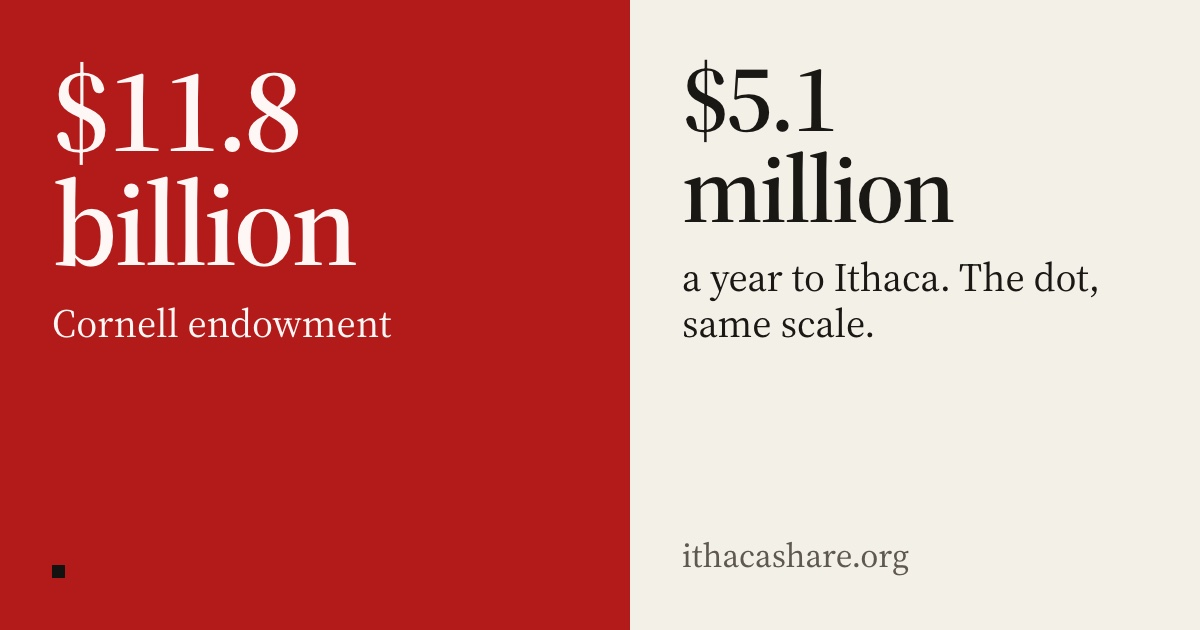
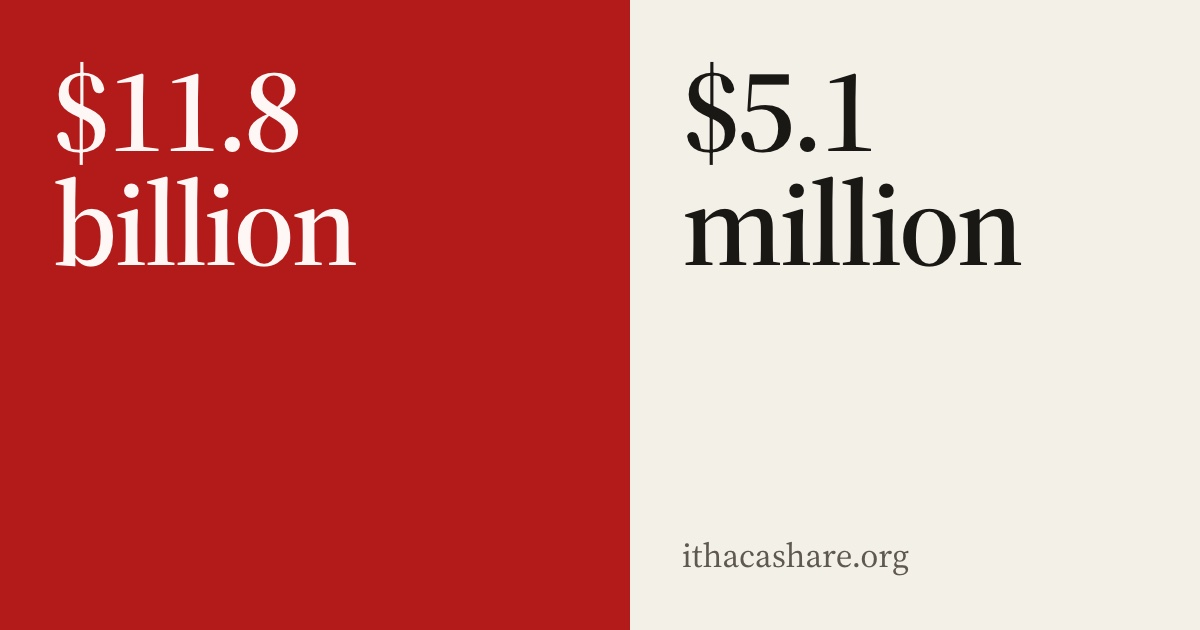
Minimal OG image

Changed region(s): [[0.555, 0.0905, 0.925, 0.5429], [0.0308, 0.4825, 0.3392, 0.5429], [0.0308, 0.8746, 0.0617, 0.9349]]

diff --git a/public/index.html b/public/index.html
@@ -13,11 +13,11 @@
   <meta property="og:url" content="https://ithacashare.org/">
   <meta property="og:title" content="Ithaca Share">
   <meta property="og:description" content="Cornell’s endowment is $11.8 billion. Its voluntary payments to Ithaca governments are about $5.1 million a year, drawn to the same scale.">
-  <meta property="og:image" content="https://ithacashare.org/og.jpg?v=3">
+  <meta property="og:image" content="https://ithacashare.org/og.jpg?v=4">
   <meta property="og:image:type" content="image/jpeg">
   <meta property="og:image:width" content="1200">
   <meta property="og:image:height" content="630">
-  <meta property="og:image:alt" content="A red square for Cornell’s $11.8 billion endowment beside a black dot, at the same scale, for the $5.1 million a year it pays Ithaca’s city, town, and schools.">
+  <meta property="og:image:alt" content="$11.8 billion beside $5.1 million.">
   <meta name="twitter:card" content="summary_large_image">
 
   <link rel="icon" href="/favicon.svg" type="image/svg+xml">
